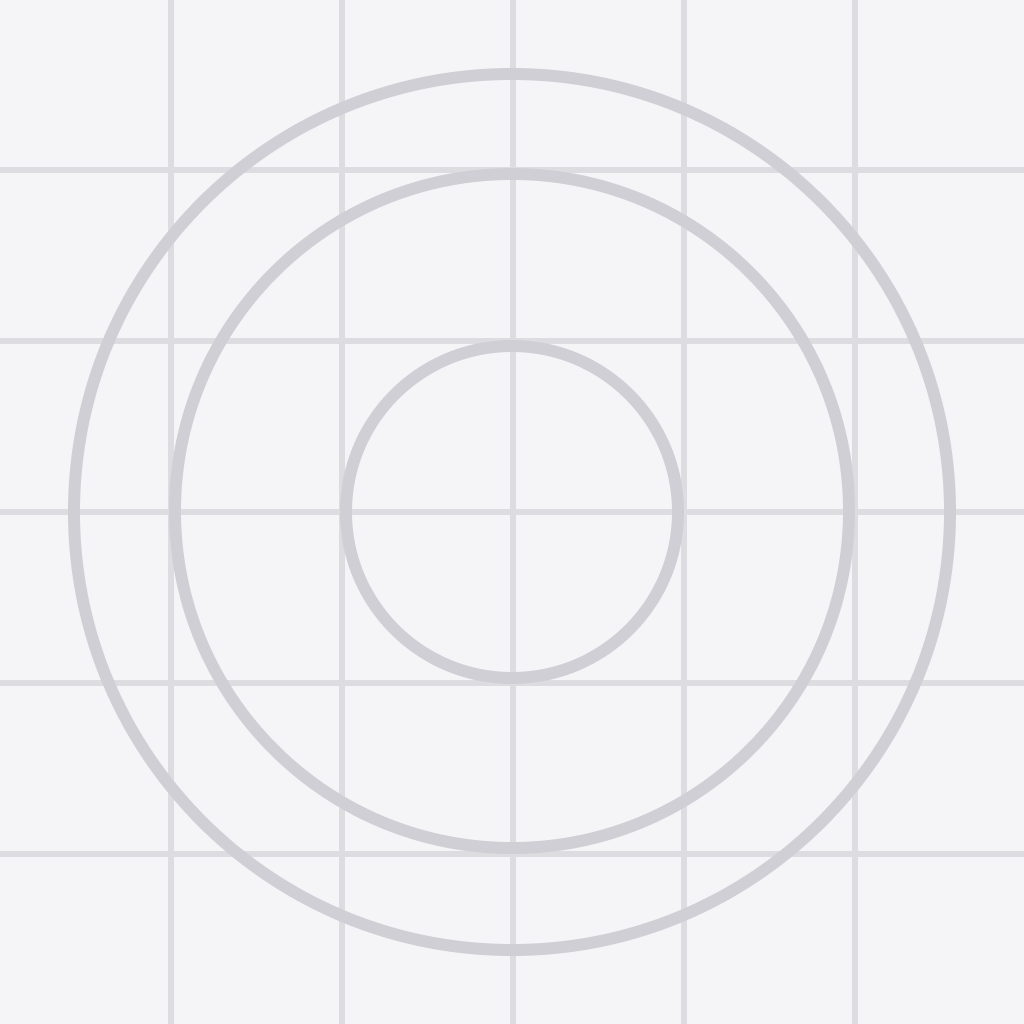
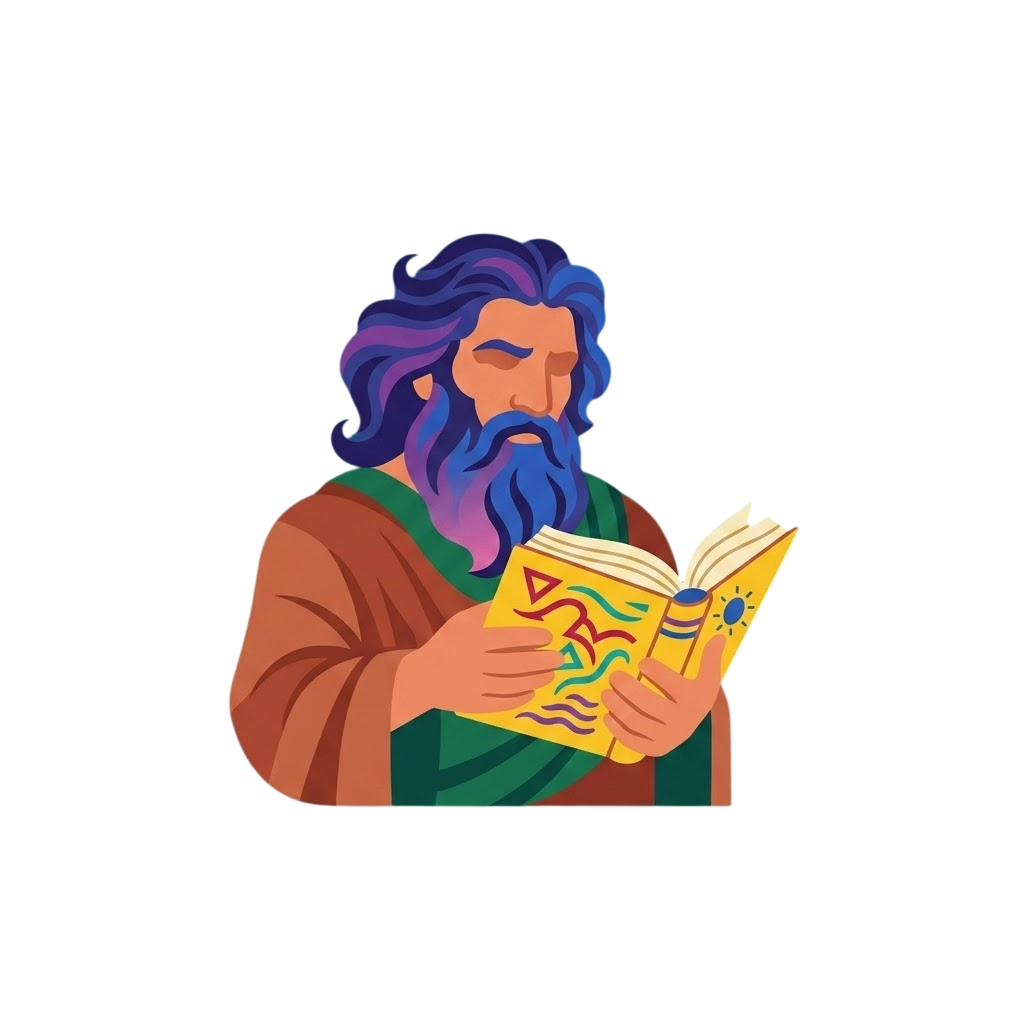
vkr dobavil

Changed region(s): [[0.0, 0.0, 1.0, 1.0], [0.7188, 0.25, 0.75, 0.2812], [0.25, 0.25, 0.2812, 0.2812]]

diff --git a/src/components/notification/Notification.js b/src/components/notification/Notification.js
@@ -1,0 +1,38 @@
+import React, { useEffect } from 'react';
+import { Animated } from 'react-native';
+import { Typography } from '../typography/Typography';
+import { styles } from './styles';
+
+export function Notification({ message, type, visible, onHide }) {
+  const translateY = new Animated.Value(-100);
+
+  useEffect(() => {
+    if (visible) {
+      Animated.spring(translateY, {
+        toValue: 50,
+        useNativeDriver: true,
+      }).start();
+
+      const timer = setTimeout(() => {
+        Animated.timing(translateY, {
+          toValue: -100,
+          duration: 300,
+          useNativeDriver: true,
+        }).start(() => onHide());
+      }, 3000);
+
+      return () => clearTimeout(timer);
+    }
+  }, [visible]);
+
+  if (!visible) return null;
+
+  return (
+    <Animated.View style={[
+      styles.container, 
+      { transform: [{ translateY }], backgroundColor: type === 'error' ? '#FF4444' : '#44FF44' }
+    ]}>
+      <Typography style={styles.text}>{message}</Typography>
+    </Animated.View>
+  );
+}

diff --git a/src/components/notification/styles.js b/src/components/notification/styles.js
@@ -1,0 +1,15 @@
+import { StyleSheet } from "react-native"
+
+export const styles = StyleSheet.create({
+  container: {
+    position: 'absolute',
+    top: 0,
+    left: '10%',
+    width: '80%',
+    padding: 15,
+    borderRadius: 10,
+    zIndex: 9999,
+    alignItems: 'center',
+  },
+  text: { color: '#FFF', fontWeight: 'bold' }
+}); 